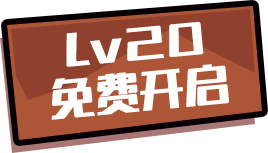
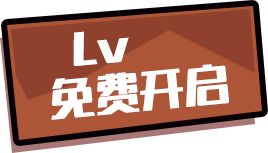
bugfixes

Changed region(s): [[0.2388, 0.1307, 0.7761, 0.4444]]

diff --git a/src/scene/popup/component/cardPack.ts b/src/scene/popup/component/cardPack.ts
@@ -9,13 +9,15 @@ export class CardPack extends ui.popup.component.cardPackUI {
     }
 
     protected init(data) {
-        const { isLock, buyInfo, cardType, staminaCost } = data;
+        const { isLock, buyInfo, cardType, staminaCost, unLockLevel } = data;
         const { pack_base } = this;
 
-        // (this.chooseBtn as Laya.Image).mouseEnabled = !isLock;
         this.chooseBtn.visible = !isLock;
         this.btnLock.visible = isLock;
-        if (staminaCost) {
+        if (isLock) {
+            this.costIcon.skin = 'images/component/icon_diamond.png';
+            this.staminaLabel.text = buyInfo.price;
+        } else if (staminaCost) {
             this.staminaLabel.text = `${Math.abs(staminaCost)}`;
         }
 
@@ -24,6 +26,7 @@ export class CardPack extends ui.popup.component.cardPackUI {
             is_buy: !data.isLock,
             price: buyInfo.price,
             type: cardType,
+            unLockLevel: unLockLevel
         };
         const card_pack_ctrl = new CardPackCtrl(pack_base, pack_data, () => {
             this.chooseBtn.visible = true;

diff --git a/src/scene/popup/popupBuyCardType.ts b/src/scene/popup/popupBuyCardType.ts
@@ -6,6 +6,7 @@ type Data = {
     card_id: string;
     price: number;
     is_buy: boolean;
+    unLockLevel: number;
 };
 const type_map = {
     2003: {
@@ -62,13 +63,19 @@ export class PopupBuyCardType extends ui.popup.buy.buyCardTypeUI {
             btn_buy,
             buy_sucess,
             intro_box,
+            levelLabel,
+            levelPanel
         } = this;
-        const { card_id, price, is_buy } = data;
+        const { card_id, price, is_buy, unLockLevel } = data;
         const type_str = type_map[card_id].en;
         title.skin = `images/pop/buy/${type_str}_title.png`;
         content.skin = `images/pop/buy/${type_str}.png`;
         cost.text = price + '';
-
+        if (unLockLevel != 0) {
+            levelLabel.text = unLockLevel.toString();
+        } else {
+            levelPanel.visible = false;
+        }
         if (is_buy) {
             btn_buy.visible = false;
             buy_sucess.visible = true;

diff --git a/src/scene/popup/popupShop.ts b/src/scene/popup/popupShop.ts
@@ -253,12 +253,14 @@ export class PopupShop extends ui.popup.popupShopUI {
                 itemList: type,
                 itemId: card_id,
                 purchased: is_buy,
+                unLockLevel
             } = card_data;
             card_type_data.push({
                 card_id,
                 is_buy,
                 price,
                 type,
+                unLockLevel
             });
         }
         card_type_list.dataSource = card_type_data;

diff --git a/src/data/res.ts b/src/data/res.ts
@@ -40,6 +40,7 @@ export const RES = {
             url: 'images/component/cardType/icon_card3.png',
             type: Laya.Loader.IMAGE,
         },
+        { url: 'font/buy_card.fnt', type: Laya.Loader.FONT },
     ],
     HALL: [
         { url: 'images/component/bg.jpg', type: Laya.Loader.IMAGE },

diff --git a/src/serverData.d.ts b/src/serverData.d.ts
@@ -176,6 +176,7 @@ type GetMAllData = {
             itemList: number;
             perPrice: 50;
             purchased: 1;
+            unLockLevel: number
         }[];
         stamina: {
             itemId: number;

diff --git a/src/scene/popup/component/cardPackBase.ts b/src/scene/popup/component/cardPackBase.ts
@@ -9,6 +9,7 @@ export type CardTypeData = {
     card_id: string;
     price: number;
     is_buy: boolean;
+    unLockLevel: number;
 };
 export class CardPackCtrl {
     protected type: string;
